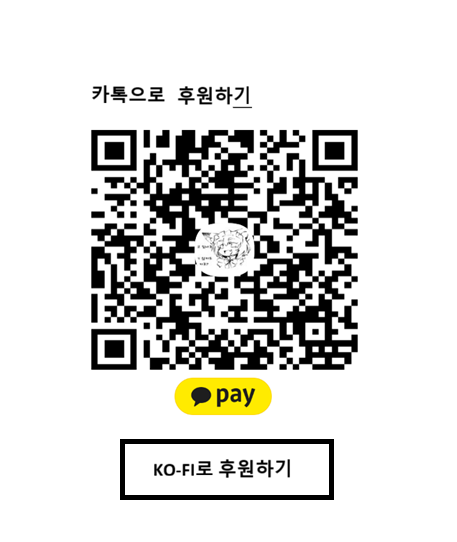
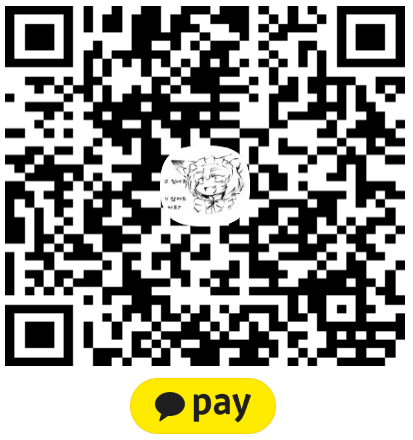
Donate dialog: use new KakaoPay QR image

diff --git a/src/SteamJoystickMapper/UI/Dialogs.cs b/src/SteamJoystickMapper/UI/Dialogs.cs
@@ -127,7 +127,7 @@ public static class Dialogs
             Child = new Image
             {
                 Source = new System.Windows.Media.Imaging.BitmapImage(new Uri("pack://application:,,,/Assets/kakaopay-donate-qr.png")),
-                Width = 240, Height = 240, ToolTip = "카카오페이 후원 QR 코드",
+                Width = 260, Stretch = Stretch.Uniform, ToolTip = "카카오페이 후원 QR 코드",
             },
         });
         var kofi = new Button { Content = "Ko-fi로 후원하기", Padding = new Thickness(14, 6, 14, 6), Margin = new Thickness(0, 14, 0, 0), HorizontalAlignment = HorizontalAlignment.Stretch };
